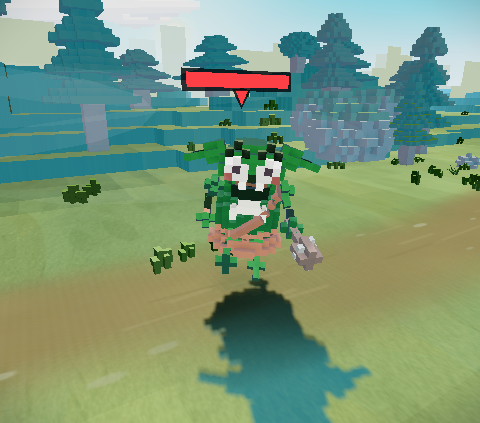
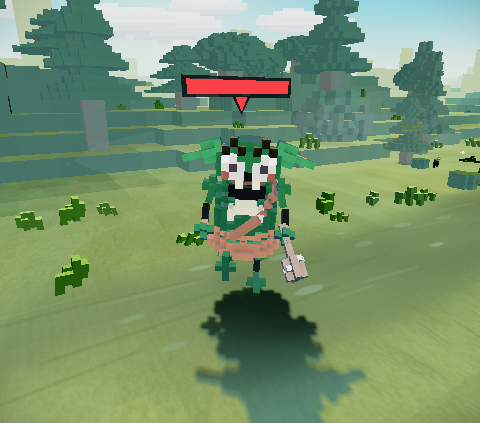
고블린 얼굴·실루엣 분리 — 1차 채점 교집합 ⑴ 반영: 비평가가 '흩어진 잎 복셀'로 읽은 실체는 귀·눈썹(수풀과 같은 톤) — 귀 바깥판 skinL 승명+두께 0.45→0.6·귓속 살굿빛, 눈썹 세이지→웜 브라운, 흰 요소 명도 분리(송곳니·뼈 목걸이를 아이보리로 내려 눈 흰자만 최명도) — probe-enemy-cute 6/6·probe-enemy-ao 유출 0·voxcon-enemy 양축 PASS, 정지·얼굴 캡처 갱신 (enemy-quality)

diff --git a/web/js/scene3d.js b/web/js/scene3d.js
@@ -17072,7 +17072,7 @@ const Scene3D = {
             const skinD = vmat(vBase.clone().offsetHSL(0, 0, -0.12));
             const skinL = vmat(vBase.clone().offsetHSL(0, 0, 0.1));
             const clothM = vmat(new THREE.Color(0x99442e), { roughness: 0.9 }); // 러스트 레드 — 초원 배경 보호색 탈피 악센트 (비평가 지적)
-            const boneM = vmat(new THREE.Color(0xf3ead6), { roughness: 0.6 });
+            const boneM = vmat(new THREE.Color(0xdcc79c), { roughness: 0.6 }); // 1차 ⑴ — 가슴 뼈 목걸이를 눈 흰자와 명도 분리(흰 요소 융합 지적)
             // 분절 다리: 대퇴 → 무릎 → 정강이 → 발
             for (const s of [-1, 1]) {
                 const hip = new THREE.Group();
@@ -17150,7 +17150,7 @@ const Scene3D = {
             mouthLine.position.set(0, 0.065, 0.1); mouthLine.scale.z = 0.5; // 턱 앞전에 걸치게 — 두상에 가려지지 않는 깊이
             jawG.add(mouthLine);
             for (const s of [-1, 1]) {
-                const tusk = vx(Voxel.taper(0.9, 0.5, 2), { material: vmat(new THREE.Color(0xf5efdd), { roughness: 0.6 }), color: 0xffffff, center: true });
+                const tusk = vx(Voxel.taper(0.9, 0.5, 2), { material: vmat(new THREE.Color(0xe6d2a4), { roughness: 0.6 }), color: 0xffffff, center: true }); // 1차 ⑴ '흰 요소 융합' — 송곳니를 아이보리로 내려 눈 흰자(0xfff6e8)와 명도 분리
                 tusk.position.set(s * 0.055, 0.06, 0.1); // 밑동은 턱 살 안, 끝은 윗입술 앞 — 턱에서 솟는 송곳니
                 tusk.rotation.x = -0.35; // 앞으로 벌어진 언더바이트 각
                 jawG.add(tusk);
@@ -17164,10 +17164,14 @@ const Scene3D = {
             for (const s of [-1, 1]) {
                 const ear = new THREE.Group();
                 ear.position.set(s * 0.19, 1.0, 0.02);
-                const earOut = vx(Voxel.taper(gv(0.075), 0.5, 6), { material: skinM, color: 0xffffff, center: true });
+                // 🎯 1차 채점 교집합 ⑴ — 비평가 2인이 '흩어진 잎 복셀'로 읽은 것의 실체가 이 귀다
+                //    (몸과 같은 초록 + 납작 taper = 배경 수풀과 같은 색·크기). 처방 '몸보다 밝은
+                //    초록으로 분리'를 그대로 적용: 바깥판 skinM → skinL(+0.1), 두께 0.45 → 0.6
+                //    (얇은 잎 → 뭉툭한 귀 덩어리), 안쪽판은 살굿빛(실제 귓속 — 수풀 톤 완전 이탈).
+                const earOut = vx(Voxel.taper(gv(0.075), 0.5, 6), { material: skinL, color: 0xffffff, center: true });
                 earOut.rotation.z = s * -1.85; earOut.position.x = s * 0.14;
-                earOut.scale.z = 0.45;
-                const earIn = vx(Voxel.taper(gv(0.045), 0.5, 4), { material: skinD, color: 0xffffff, center: true });
+                earOut.scale.z = 0.6;
+                const earIn = vx(Voxel.taper(gv(0.045), 0.5, 4), { material: vmat(new THREE.Color(0x9c5a48), { roughness: 0.85 }), color: 0xffffff, center: true });
                 earIn.rotation.z = s * -1.85; earIn.position.set(s * 0.12, 0.012, 0);
                 earIn.scale.z = 0.3;
                 ear.add(earOut, earIn);
@@ -17176,7 +17180,7 @@ const Scene3D = {
             const nose = vx(Voxel.taper(gv(0.045), 0.5, 3), { material: skinD, color: 0xffffff, center: true });
             nose.position.set(0, 0.93, 0.3); nose.rotation.x = Math.PI / 2 - 0.35;
             g.add(nose);
-            eyes(0.99, 0.28, 0.1, 0.045, 'fierce', { iris: 0xd9c422, tilt: 0.07, browColor: 0x3a4a2e, blushK: 0.66 }); // tilt 0.12→0.07 — 눈 기울기도 '화난 눈매'의 절반을 진다(cute-art-direction)
+            eyes(0.99, 0.28, 0.1, 0.045, 'fierce', { iris: 0xd9c422, tilt: 0.07, browColor: 0x46311f, blushK: 0.66 }); // browColor 0x3a4a2e(세이지) → 웜 브라운 — 1차 ⑴ '잎 노이즈'의 공범(수풀과 같은 톤) // tilt 0.12→0.07 — 눈 기울기도 '화난 눈매'의 절반을 진다(cute-art-direction)
             // 분절 팔 + 가시 몽둥이
             for (const s of [-1, 1]) {
                 const sh = new THREE.Group();
